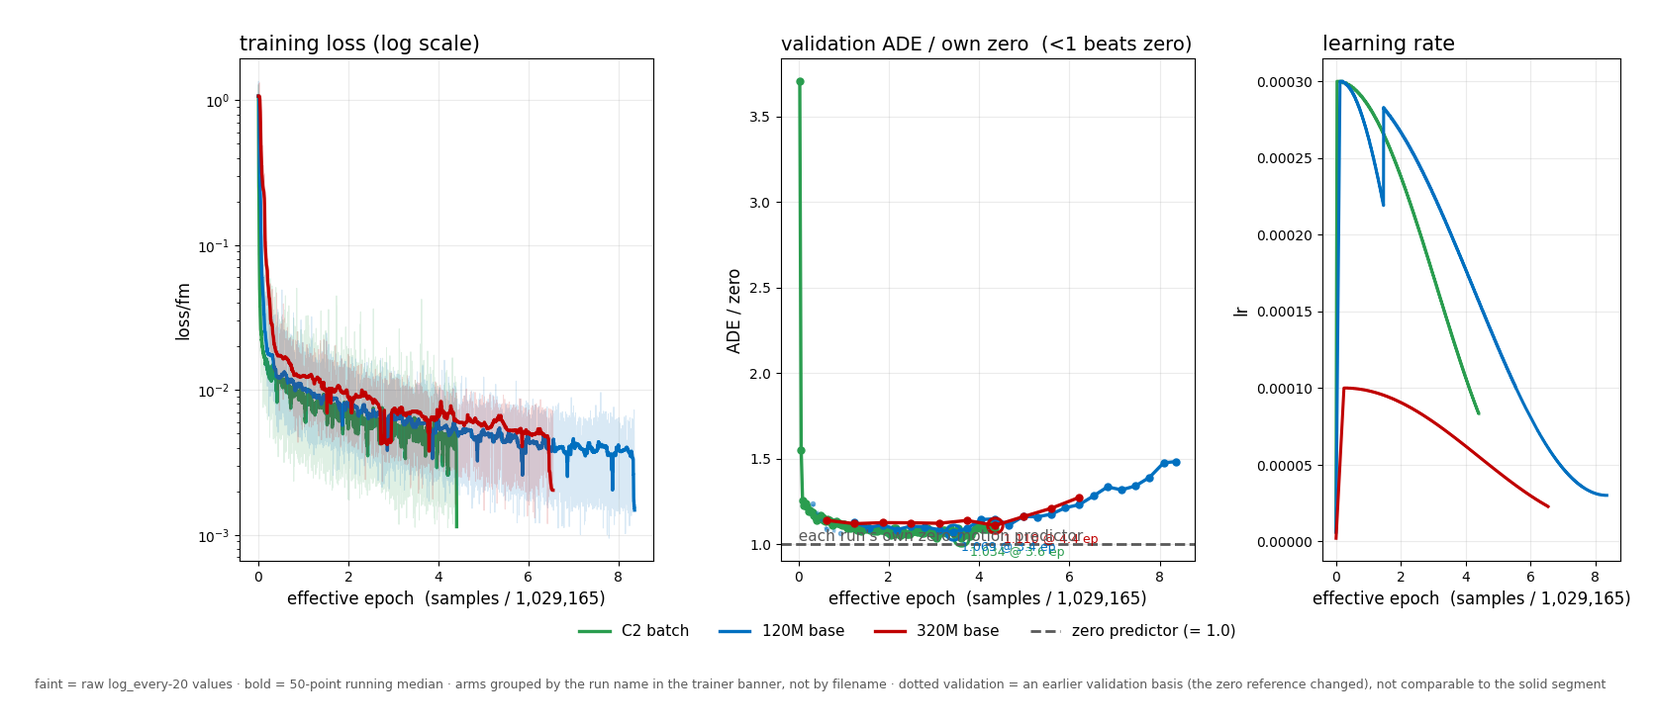
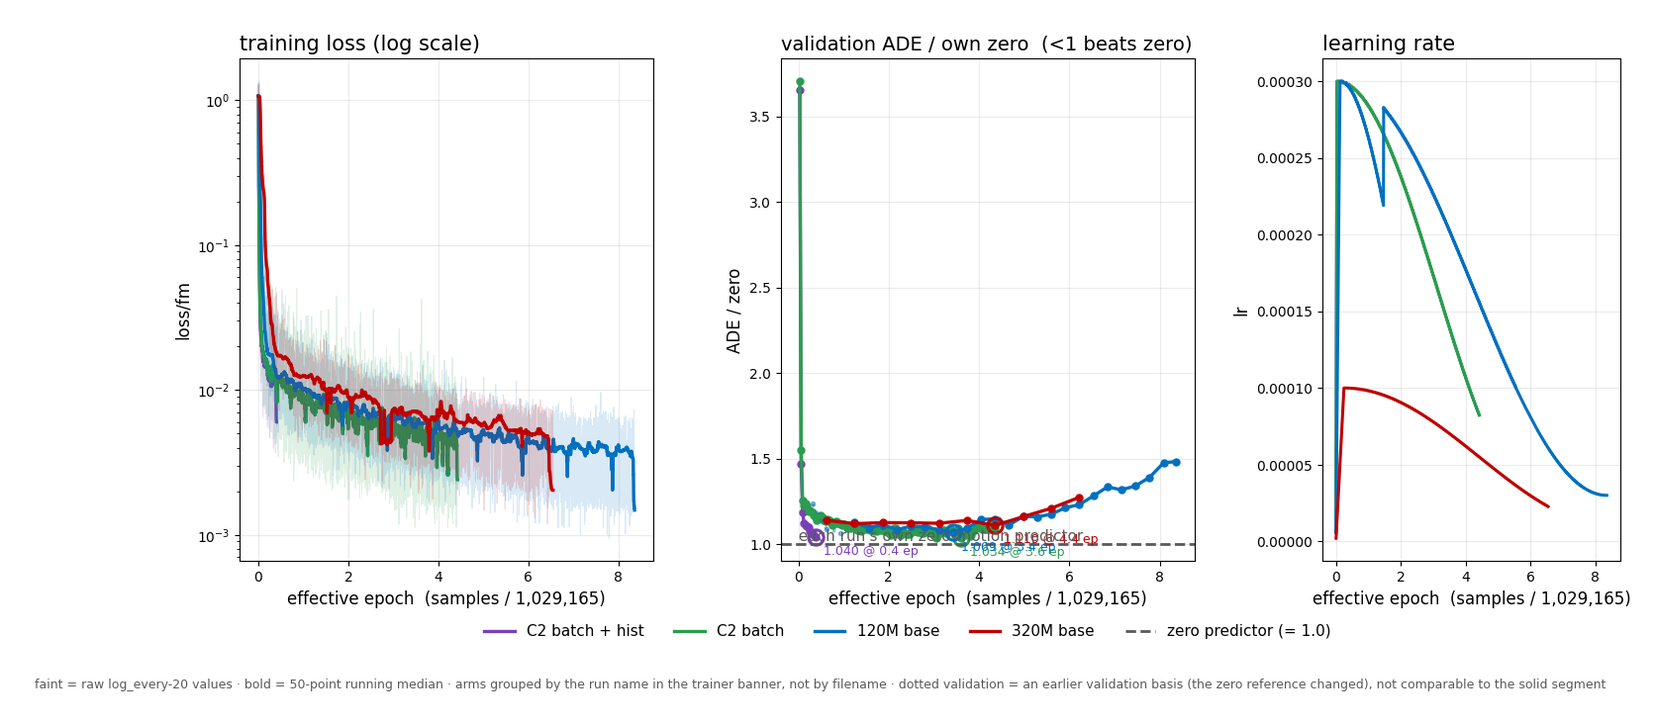
3d-wam deck #2-2: per-epoch update (2026-09-10 14:42 KST)
Claude-Session: https://claude.ai/code/session_01SMPxcWL3pAAD5cKRpfQpSb

diff --git a/experiments/3d-wam/decks/2026-09-09-s2-2-architecture-training/index.html b/experiments/3d-wam/decks/2026-09-09-s2-2-architecture-training/index.html
@@ -232,7 +232,7 @@
         <figcaption>The one metric and its three analyses</figcaption></figure>
     </div>
     <figure class="fig"><img src="assets/loss_curve.png" alt="Training loss and learning rate of both arms against effective epoch">
-      <figcaption>left: training loss &middot; <b>centre: held-out validation ADE &divide; each run&rsquo;s OWN zero predictor (1.0 dashed = zero; below 1.0 would beat it &mdash; no run has yet; dotted = an earlier basis, excluded)</b> &middot; right: learning rate. <b>C2 batch (green) reaches 1.034 at 3.6 ep &mdash; a better floor than the 120M base ever got (1.069 at 3.4 ep) &mdash; then turns up too (1.128 by 4.4 ep): the smaller batch lowers the minimum, it does not remove the overfitting.</b> Faint = raw log_every-20; dotted verticals = resume / GPU-count change.</figcaption></figure>
+      <figcaption>left: training loss &middot; <b>centre: held-out validation ADE &divide; each run&rsquo;s OWN zero predictor (1.0 dashed = zero; below 1.0 would beat it &mdash; no run has yet; dotted = an earlier basis, excluded)</b> &middot; right: learning rate. <b>C2 batch (green) reaches 1.034 at 3.6 ep &mdash; a better floor than the 120M base ever got (1.069 at 3.4 ep) &mdash; then turns up too (1.128 by 4.4 ep): the smaller batch lowers the minimum, it does not remove the overfitting.</b> <b>History (purple) is at 1.040 by 0.40 ep</b> &mdash; already near the batch arm&rsquo;s best floor. Faint = raw log_every-20; dotted verticals = resume / GPU-count change.</figcaption></figure>
   </div>
   <p class="footnote">mEPE = EPE3D on the moving subset (after Chodosh 2023) with the zero-velocity reference (Martinez 2017); owner-confirmed 09-09 14:10 · TACO Je/Te/Re companion · training logs season2/logs/</p>
 </section>
@@ -251,14 +251,14 @@
       <tr><td>320M base</td><td>ep08 · 8.00</td><td class="num">41.29 / 65.74</td><td class="num">36.17 / 24.26</td></tr>
       <tr class="pend"><td>320M base</td><td>ep01 · 1.00</td><td class="pd" colspan="2">landed 10:06 Wed · read not planned</td></tr>
       <tr class="pend"><td>C2 batch</td><td>ep02 · 2.00</td><td class="pd" colspan="2">landed 08:16 · read unestimated</td></tr>
-      <tr class="pend"><td>C2 batch + history</td><td>ep01 · 1.00</td><td class="pd" colspan="2">lands — · read unestimated</td></tr>
+      <tr class="pend"><td>C2 batch + history</td><td>ep01 · 1.00</td><td class="pd" colspan="2">lands 16:14 · read unestimated</td></tr>
       <tr class="pend"><td>C2 batch + contact aux</td><td>ep01 · 1.00</td><td class="pd" colspan="2">lands — · read unestimated</td></tr>
     </tbody></table>
     <figcaption>Latest reads per arm (all epochs are in the curves) · 7 held-out clips (2 ARCTIC · 3 GRAB · 2 HOI4D) · 6 train-episode clips rendered, not scored · self-predicted AR · H = 50 · CFG 1.0 · 16 Euler steps · zero = the basis's own zero-velocity predictor</figcaption></figure>
 </div>
 <!-- /GEN -->
   <!-- GEN:etabar -->
-<p class="etabar"><b>ETA</b> (from 13:40 KST) · <b>120M base</b>: all reads in &nbsp;|&nbsp; <b>320M base</b>: all reads in &nbsp;|&nbsp; <b>C2 batch</b> · ep02 landed 08:16 (-5.4 h) · read unestimated</b> · 2 more, ~2.7 h apart · ep06 6.00 ep lands <b>18:59</b> (+5.3 h) → read <b>~—</b> &nbsp;|&nbsp; <b>C2 batch + history</b> · ep01 lands — (unestimated) · read unestimated</b> · 4 more · ep06 6.00 ep lands <b>—</b> (unestimated) → read <b>~—</b> &nbsp;|&nbsp; <b>C2 batch + contact aux</b> · ep01 lands — (unestimated) · read unestimated</b> · 4 more · ep06 6.00 ep lands <b>—</b> (unestimated) → read <b>~—</b></p>
+<p class="etabar"><b>ETA</b> (from 14:42 KST) · <b>120M base</b>: all reads in &nbsp;|&nbsp; <b>320M base</b>: all reads in &nbsp;|&nbsp; <b>C2 batch</b> · ep02 landed 08:16 (-6.4 h) · read unestimated</b> · ep03 3.00 ep lands <b>10:57</b> (-3.8 h) → read <b>~—</b> &nbsp;|&nbsp; <b>C2 batch + history</b> · ep01 lands 16:14 (+1.5 h) · read unestimated</b> · 4 more, ~2.7 h apart · ep06 6.00 ep lands <b>05:38 Fri</b> (+14.9 h) → read <b>~—</b> &nbsp;|&nbsp; <b>C2 batch + contact aux</b> · ep01 lands — (unestimated) · read unestimated</b> · 4 more · ep06 6.00 ep lands <b>—</b> (unestimated) → read <b>~—</b></p>
 <!-- /GEN -->
   <p class="footnote">eff. epoch = steps × eff. batch / 1,029,165 · zero = zero-velocity predictor · every epoch scored on the SAME 7 held-out clips (re-pooled 03:15) · clips on the next seven slides</p>
 </section>
@@ -294,8 +294,8 @@
     <figure class="phold"><div class="pbox"><b>WILL UPDATE</b><span>landed 08:16</span></div><figcaption>C2 batch · step 64,322 · 2.00 ep</figcaption></figure>
     <figure class="phold"><div class="pbox"><b>WILL UPDATE</b><span>landed 10:57</span></div><figcaption>C2 batch · step 96,483 · 3.00 ep</figcaption></figure>
     <figure><img src="assets/c2b_nohist/ep04/roll/dexycb_292_ar.gif" alt="dexycb “grasp the tomato soup can”: ground truth left, rollout right (C2 batch, ep04)" loading="lazy" style="background:url(assets/c2b_nohist/ep04/roll/dexycb_292_ar.jpg) center/contain no-repeat"><figcaption>C2 batch · step 128,644 · 4.00 ep</figcaption></figure>
-    <figure class="phold"><div class="pbox"><b>WILL UPDATE</b><span>lands 16:19</span></div><figcaption>C2 batch · step 160,805 · 5.00 ep</figcaption></figure>
-    <figure class="phold"><div class="pbox"><b>WILL UPDATE</b><span>lands 18:59</span></div><figcaption>C2 batch · step 192,966 · 6.00 ep</figcaption></figure>
+    <figure class="phold"><div class="pbox"><b>WILL UPDATE</b><span>not scheduled</span></div><figcaption>C2 batch · ep05 · not scheduled</figcaption></figure>
+    <figure class="phold"><div class="pbox"><b>WILL UPDATE</b><span>not scheduled</span></div><figcaption>C2 batch · ep06 · not scheduled</figcaption></figure>
     <figure class="phold"><div class="pbox"><b>WILL UPDATE</b><span>not scheduled</span></div><figcaption>C2 batch · ep07 · not scheduled</figcaption></figure>
     <figure class="phold"><div class="pbox"><b>WILL UPDATE</b><span>not scheduled</span></div><figcaption>C2 batch · ep08 · not scheduled</figcaption></figure>
     <figure class="phold"><div class="pbox"><b>WILL UPDATE</b><span>not scheduled</span></div><figcaption>C2 batch · final · not scheduled</figcaption></figure>
@@ -332,8 +332,8 @@
     <figure class="phold"><div class="pbox"><b>WILL UPDATE</b><span>landed 08:16</span></div><figcaption>C2 batch · step 64,322 · 2.00 ep</figcaption></figure>
     <figure class="phold"><div class="pbox"><b>WILL UPDATE</b><span>landed 10:57</span></div><figcaption>C2 batch · step 96,483 · 3.00 ep</figcaption></figure>
     <figure><img src="assets/c2b_nohist/ep04/roll/hoi4d_2613_ar.gif" alt="hoi4d “pick and place the kettle”: ground truth left, rollout right (C2 batch, ep04)" loading="lazy" style="background:url(assets/c2b_nohist/ep04/roll/hoi4d_2613_ar.jpg) center/contain no-repeat"><figcaption>C2 batch · step 128,644 · 4.00 ep</figcaption></figure>
-    <figure class="phold"><div class="pbox"><b>WILL UPDATE</b><span>lands 16:19</span></div><figcaption>C2 batch · step 160,805 · 5.00 ep</figcaption></figure>
-    <figure class="phold"><div class="pbox"><b>WILL UPDATE</b><span>lands 18:59</span></div><figcaption>C2 batch · step 192,966 · 6.00 ep</figcaption></figure>
+    <figure class="phold"><div class="pbox"><b>WILL UPDATE</b><span>not scheduled</span></div><figcaption>C2 batch · ep05 · not scheduled</figcaption></figure>
+    <figure class="phold"><div class="pbox"><b>WILL UPDATE</b><span>not scheduled</span></div><figcaption>C2 batch · ep06 · not scheduled</figcaption></figure>
     <figure class="phold"><div class="pbox"><b>WILL UPDATE</b><span>not scheduled</span></div><figcaption>C2 batch · ep07 · not scheduled</figcaption></figure>
     <figure class="phold"><div class="pbox"><b>WILL UPDATE</b><span>not scheduled</span></div><figcaption>C2 batch · ep08 · not scheduled</figcaption></figure>
     <figure class="phold"><div class="pbox"><b>WILL UPDATE</b><span>not scheduled</span></div><figcaption>C2 batch · final · not scheduled</figcaption></figure>
@@ -370,8 +370,8 @@
     <figure class="phold"><div class="pbox"><b>WILL UPDATE</b><span>landed 08:16</span></div><figcaption>C2 batch · step 64,322 · 2.00 ep</figcaption></figure>
     <figure class="phold"><div class="pbox"><b>WILL UPDATE</b><span>landed 10:57</span></div><figcaption>C2 batch · step 96,483 · 3.00 ep</figcaption></figure>
     <figure><img src="assets/c2b_nohist/ep04/roll/hot3d_4293_ar.gif" alt="hot3d “interact with the potato masher and the can tomato sauce”: ground truth left, rollout right (C2 batch, ep04)" loading="lazy" style="background:url(assets/c2b_nohist/ep04/roll/hot3d_4293_ar.jpg) center/contain no-repeat"><figcaption>C2 batch · step 128,644 · 4.00 ep</figcaption></figure>
-    <figure class="phold"><div class="pbox"><b>WILL UPDATE</b><span>lands 16:19</span></div><figcaption>C2 batch · step 160,805 · 5.00 ep</figcaption></figure>
-    <figure class="phold"><div class="pbox"><b>WILL UPDATE</b><span>lands 18:59</span></div><figcaption>C2 batch · step 192,966 · 6.00 ep</figcaption></figure>
+    <figure class="phold"><div class="pbox"><b>WILL UPDATE</b><span>not scheduled</span></div><figcaption>C2 batch · ep05 · not scheduled</figcaption></figure>
+    <figure class="phold"><div class="pbox"><b>WILL UPDATE</b><span>not scheduled</span></div><figcaption>C2 batch · ep06 · not scheduled</figcaption></figure>
     <figure class="phold"><div class="pbox"><b>WILL UPDATE</b><span>not scheduled</span></div><figcaption>C2 batch · ep07 · not scheduled</figcaption></figure>
     <figure class="phold"><div class="pbox"><b>WILL UPDATE</b><span>not scheduled</span></div><figcaption>C2 batch · ep08 · not scheduled</figcaption></figure>
     <figure class="phold"><div class="pbox"><b>WILL UPDATE</b><span>not scheduled</span></div><figcaption>C2 batch · final · not scheduled</figcaption></figure>
@@ -408,8 +408,8 @@
     <figure class="phold"><div class="pbox"><b>WILL UPDATE</b><span>landed 08:16</span></div><figcaption>C2 batch · step 64,322 · 2.00 ep</figcaption></figure>
     <figure class="phold"><div class="pbox"><b>WILL UPDATE</b><span>landed 10:57</span></div><figcaption>C2 batch · step 96,483 · 3.00 ep</figcaption></figure>
     <figure><img src="assets/c2b_nohist/ep04/roll/arctic_0_ar.gif" alt="arctic “grab the box”: ground truth left, rollout right (C2 batch, ep04)" loading="lazy" style="background:url(assets/c2b_nohist/ep04/roll/arctic_0_ar.jpg) center/contain no-repeat"><figcaption>C2 batch · step 128,644 · 4.00 ep</figcaption></figure>
-    <figure class="phold"><div class="pbox"><b>WILL UPDATE</b><span>lands 16:19</span></div><figcaption>C2 batch · step 160,805 · 5.00 ep</figcaption></figure>
-    <figure class="phold"><div class="pbox"><b>WILL UPDATE</b><span>lands 18:59</span></div><figcaption>C2 batch · step 192,966 · 6.00 ep</figcaption></figure>
+    <figure class="phold"><div class="pbox"><b>WILL UPDATE</b><span>not scheduled</span></div><figcaption>C2 batch · ep05 · not scheduled</figcaption></figure>
+    <figure class="phold"><div class="pbox"><b>WILL UPDATE</b><span>not scheduled</span></div><figcaption>C2 batch · ep06 · not scheduled</figcaption></figure>
     <figure class="phold"><div class="pbox"><b>WILL UPDATE</b><span>not scheduled</span></div><figcaption>C2 batch · ep07 · not scheduled</figcaption></figure>
     <figure class="phold"><div class="pbox"><b>WILL UPDATE</b><span>not scheduled</span></div><figcaption>C2 batch · ep08 · not scheduled</figcaption></figure>
     <figure class="phold"><div class="pbox"><b>WILL UPDATE</b><span>not scheduled</span></div><figcaption>C2 batch · final · not scheduled</figcaption></figure>
@@ -446,8 +446,8 @@
     <figure class="phold"><div class="pbox"><b>WILL UPDATE</b><span>landed 08:16</span></div><figcaption>C2 batch · step 64,322 · 2.00 ep</figcaption></figure>
     <figure class="phold"><div class="pbox"><b>WILL UPDATE</b><span>landed 10:57</span></div><figcaption>C2 batch · step 96,483 · 3.00 ep</figcaption></figure>
     <figure><img src="assets/c2b_nohist/ep04/roll/grab_1312_ar.gif" alt="grab “lift the cup”: ground truth left, rollout right (C2 batch, ep04)" loading="lazy" style="background:url(assets/c2b_nohist/ep04/roll/grab_1312_ar.jpg) center/contain no-repeat"><figcaption>C2 batch · step 128,644 · 4.00 ep</figcaption></figure>
-    <figure class="phold"><div class="pbox"><b>WILL UPDATE</b><span>lands 16:19</span></div><figcaption>C2 batch · step 160,805 · 5.00 ep</figcaption></figure>
-    <figure class="phold"><div class="pbox"><b>WILL UPDATE</b><span>lands 18:59</span></div><figcaption>C2 batch · step 192,966 · 6.00 ep</figcaption></figure>
+    <figure class="phold"><div class="pbox"><b>WILL UPDATE</b><span>not scheduled</span></div><figcaption>C2 batch · ep05 · not scheduled</figcaption></figure>
+    <figure class="phold"><div class="pbox"><b>WILL UPDATE</b><span>not scheduled</span></div><figcaption>C2 batch · ep06 · not scheduled</figcaption></figure>
     <figure class="phold"><div class="pbox"><b>WILL UPDATE</b><span>not scheduled</span></div><figcaption>C2 batch · ep07 · not scheduled</figcaption></figure>
     <figure class="phold"><div class="pbox"><b>WILL UPDATE</b><span>not scheduled</span></div><figcaption>C2 batch · ep08 · not scheduled</figcaption></figure>
     <figure class="phold"><div class="pbox"><b>WILL UPDATE</b><span>not scheduled</span></div><figcaption>C2 batch · final · not scheduled</figcaption></figure>
@@ -484,8 +484,8 @@
     <figure class="phold"><div class="pbox"><b>WILL UPDATE</b><span>landed 08:16</span></div><figcaption>C2 batch · step 64,322 · 2.00 ep</figcaption></figure>
     <figure class="phold"><div class="pbox"><b>WILL UPDATE</b><span>landed 10:57</span></div><figcaption>C2 batch · step 96,483 · 3.00 ep</figcaption></figure>
     <figure><img src="assets/c2b_nohist/ep04/roll/oakink2_4588_ar.gif" alt="oakink2 “Weigh something with scale by pouring it into the bowl.”: ground truth left, rollout right (C2 batch, ep04)" loading="lazy" style="background:url(assets/c2b_nohist/ep04/roll/oakink2_4588_ar.jpg) center/contain no-repeat"><figcaption>C2 batch · step 128,644 · 4.00 ep</figcaption></figure>
-    <figure class="phold"><div class="pbox"><b>WILL UPDATE</b><span>lands 16:19</span></div><figcaption>C2 batch · step 160,805 · 5.00 ep</figcaption></figure>
-    <figure class="phold"><div class="pbox"><b>WILL UPDATE</b><span>lands 18:59</span></div><figcaption>C2 batch · step 192,966 · 6.00 ep</figcaption></figure>
+    <figure class="phold"><div class="pbox"><b>WILL UPDATE</b><span>not scheduled</span></div><figcaption>C2 batch · ep05 · not scheduled</figcaption></figure>
+    <figure class="phold"><div class="pbox"><b>WILL UPDATE</b><span>not scheduled</span></div><figcaption>C2 batch · ep06 · not scheduled</figcaption></figure>
     <figure class="phold"><div class="pbox"><b>WILL UPDATE</b><span>not scheduled</span></div><figcaption>C2 batch · ep07 · not scheduled</figcaption></figure>
     <figure class="phold"><div class="pbox"><b>WILL UPDATE</b><span>not scheduled</span></div><figcaption>C2 batch · ep08 · not scheduled</figcaption></figure>
     <figure class="phold"><div class="pbox"><b>WILL UPDATE</b><span>not scheduled</span></div><figcaption>C2 batch · final · not scheduled</figcaption></figure>
@@ -522,8 +522,8 @@
     <figure class="phold"><div class="pbox"><b>WILL UPDATE</b><span>landed 08:16</span></div><figcaption>C2 batch · step 64,322 · 2.00 ep</figcaption></figure>
     <figure class="phold"><div class="pbox"><b>WILL UPDATE</b><span>landed 10:57</span></div><figcaption>C2 batch · step 96,483 · 3.00 ep</figcaption></figure>
     <figure><img src="assets/c2b_nohist/ep04/roll/taco_7606_ar.gif" alt="taco “put in the pan with the bowl”: ground truth left, rollout right (C2 batch, ep04)" loading="lazy" style="background:url(assets/c2b_nohist/ep04/roll/taco_7606_ar.jpg) center/contain no-repeat"><figcaption>C2 batch · step 128,644 · 4.00 ep</figcaption></figure>
-    <figure class="phold"><div class="pbox"><b>WILL UPDATE</b><span>lands 16:19</span></div><figcaption>C2 batch · step 160,805 · 5.00 ep</figcaption></figure>
-    <figure class="phold"><div class="pbox"><b>WILL UPDATE</b><span>lands 18:59</span></div><figcaption>C2 batch · step 192,966 · 6.00 ep</figcaption></figure>
+    <figure class="phold"><div class="pbox"><b>WILL UPDATE</b><span>not scheduled</span></div><figcaption>C2 batch · ep05 · not scheduled</figcaption></figure>
+    <figure class="phold"><div class="pbox"><b>WILL UPDATE</b><span>not scheduled</span></div><figcaption>C2 batch · ep06 · not scheduled</figcaption></figure>
     <figure class="phold"><div class="pbox"><b>WILL UPDATE</b><span>not scheduled</span></div><figcaption>C2 batch · ep07 · not scheduled</figcaption></figure>
     <figure class="phold"><div class="pbox"><b>WILL UPDATE</b><span>not scheduled</span></div><figcaption>C2 batch · ep08 · not scheduled</figcaption></figure>
     <figure class="phold"><div class="pbox"><b>WILL UPDATE</b><span>not scheduled</span></div><figcaption>C2 batch · final · not scheduled</figcaption></figure>
@@ -546,14 +546,14 @@
       <tr><td>320M base</td><td>ep08 · 8.00</td><td class="num">4.98 / 4.65</td><td class="num">10.22 / 8.72</td><td class="num">0 / 3</td></tr>
       <tr class="pend"><td>320M base</td><td>ep01 · 1.00</td><td class="pd" colspan="3">landed 10:06 Wed · read not planned</td></tr>
       <tr class="pend"><td>C2 batch</td><td>ep02 · 2.00</td><td class="pd" colspan="3">landed 08:16 · read unestimated</td></tr>
-      <tr class="pend"><td>C2 batch + history</td><td>ep01 · 1.00</td><td class="pd" colspan="3">lands — · read unestimated</td></tr>
+      <tr class="pend"><td>C2 batch + history</td><td>ep01 · 1.00</td><td class="pd" colspan="3">lands 16:14 · read unestimated</td></tr>
       <tr class="pend"><td>C2 batch + contact aux</td><td>ep01 · 1.00</td><td class="pd" colspan="3">lands — · read unestimated</td></tr>
     </tbody></table>
     <figcaption>Latest reads per arm (all epochs are in the curves) · GR-1 PnPCanToBowl · 3 episodes · H = 4 replans, timestep-matched · can + bowl in the scene · zero = the basis's own zero-velocity predictor</figcaption></figure>
 </div>
 <!-- /GEN -->
   <!-- GEN:etabar -->
-<p class="etabar"><b>ETA</b> (from 13:40 KST) · <b>120M base</b>: all reads in &nbsp;|&nbsp; <b>320M base</b>: all reads in &nbsp;|&nbsp; <b>C2 batch</b> · ep02 landed 08:16 (-5.4 h) · read unestimated</b> · 2 more, ~2.7 h apart · ep06 6.00 ep lands <b>18:59</b> (+5.3 h) → read <b>~—</b> &nbsp;|&nbsp; <b>C2 batch + history</b> · ep01 lands — (unestimated) · read unestimated</b> · 4 more · ep06 6.00 ep lands <b>—</b> (unestimated) → read <b>~—</b> &nbsp;|&nbsp; <b>C2 batch + contact aux</b> · ep01 lands — (unestimated) · read unestimated</b> · 4 more · ep06 6.00 ep lands <b>—</b> (unestimated) → read <b>~—</b></p>
+<p class="etabar"><b>ETA</b> (from 14:42 KST) · <b>120M base</b>: all reads in &nbsp;|&nbsp; <b>320M base</b>: all reads in &nbsp;|&nbsp; <b>C2 batch</b> · ep02 landed 08:16 (-6.4 h) · read unestimated</b> · ep03 3.00 ep lands <b>10:57</b> (-3.8 h) → read <b>~—</b> &nbsp;|&nbsp; <b>C2 batch + history</b> · ep01 lands 16:14 (+1.5 h) · read unestimated</b> · 4 more, ~2.7 h apart · ep06 6.00 ep lands <b>05:38 Fri</b> (+14.9 h) → read <b>~—</b> &nbsp;|&nbsp; <b>C2 batch + contact aux</b> · ep01 lands — (unestimated) · read unestimated</b> · 4 more · ep06 6.00 ep lands <b>—</b> (unestimated) → read <b>~—</b></p>
 <!-- /GEN -->
   <p class="footnote">Protocol in Appendix A1 (H = 4 is GR00T N1.7's official 8 env steps). <b>Zero moves with the checkpoint</b> (3.98–5.03 cm): closed-loop truth is the sim under the <i>model's own</i> actions, so the 2 cm moving set — and the baseline — are checkpoint-dependent. <b>Each row is one measurement, not a trend.</b> Margins ep01→final: −0.01, +0.75, +0.65, +0.56, +0.48, +0.59, +0.75, −0.19, +0.75 (mean +0.48, sd 0.33); ep08 is an outlier, not a decline.</p>
 </section>
@@ -589,8 +589,8 @@
     <figure class="phold"><div class="pbox"><b>WILL UPDATE</b><span>landed 08:16</span></div><figcaption>C2 batch · step 64,322 · 2.00 ep</figcaption></figure>
     <figure class="phold"><div class="pbox"><b>WILL UPDATE</b><span>landed 10:57</span></div><figcaption>C2 batch · step 96,483 · 3.00 ep</figcaption></figure>
     <figure><video src="assets/c2b_nohist/ep04/gr1/episode_00_composite.mp4" poster="assets/c2b_nohist/ep04/gr1/episode_00_composite.jpg" autoplay loop muted playsinline preload="metadata"></video><figcaption>C2 batch · step 128,644 · 4.00 ep</figcaption></figure>
-    <figure class="phold"><div class="pbox"><b>WILL UPDATE</b><span>lands 16:19</span></div><figcaption>C2 batch · step 160,805 · 5.00 ep</figcaption></figure>
-    <figure class="phold"><div class="pbox"><b>WILL UPDATE</b><span>lands 18:59</span></div><figcaption>C2 batch · step 192,966 · 6.00 ep</figcaption></figure>
+    <figure class="phold"><div class="pbox"><b>WILL UPDATE</b><span>not scheduled</span></div><figcaption>C2 batch · ep05 · not scheduled</figcaption></figure>
+    <figure class="phold"><div class="pbox"><b>WILL UPDATE</b><span>not scheduled</span></div><figcaption>C2 batch · ep06 · not scheduled</figcaption></figure>
     <figure class="phold"><div class="pbox"><b>WILL UPDATE</b><span>not scheduled</span></div><figcaption>C2 batch · ep07 · not scheduled</figcaption></figure>
     <figure class="phold"><div class="pbox"><b>WILL UPDATE</b><span>not scheduled</span></div><figcaption>C2 batch · ep08 · not scheduled</figcaption></figure>
     <figure class="phold"><div class="pbox"><b>WILL UPDATE</b><span>not scheduled</span></div><figcaption>C2 batch · final · not scheduled</figcaption></figure>
@@ -613,14 +613,14 @@
       <tr><td>320M base</td><td>ep08 · 8.00</td><td class="num">13.45 / 6.53</td><td class="num">14.24 / 13.88</td><td class="num">0 / 3</td></tr>
       <tr class="pend"><td>320M base</td><td>ep01 · 1.00</td><td class="pd" colspan="3">landed 10:06 Wed · read not planned</td></tr>
       <tr class="pend"><td>C2 batch</td><td>ep02 · 2.00</td><td class="pd" colspan="3">landed 08:16 · read unestimated</td></tr>
-      <tr class="pend"><td>C2 batch + history</td><td>ep01 · 1.00</td><td class="pd" colspan="3">lands — · read unestimated</td></tr>
+      <tr class="pend"><td>C2 batch + history</td><td>ep01 · 1.00</td><td class="pd" colspan="3">lands 16:14 · read unestimated</td></tr>
       <tr class="pend"><td>C2 batch + contact aux</td><td>ep01 · 1.00</td><td class="pd" colspan="3">lands — · read unestimated</td></tr>
     </tbody></table>
     <figcaption>Latest reads per arm (all epochs are in the curves) · DexJoCo hammer_nail · 3 episodes · H = 4 replans, timestep-matched · front camera · '—' = no GT object point moved &gt; 2 cm · zero = the basis's own zero-velocity predictor</figcaption></figure>
 </div>
 <!-- /GEN -->
   <!-- GEN:etabar -->
-<p class="etabar"><b>ETA</b> (from 13:40 KST) · <b>120M base</b>: all reads in &nbsp;|&nbsp; <b>320M base</b>: all reads in &nbsp;|&nbsp; <b>C2 batch</b> · ep02 landed 08:16 (-5.4 h) · read unestimated</b> · 2 more, ~2.7 h apart · ep06 6.00 ep lands <b>18:59</b> (+5.3 h) → read <b>~—</b> &nbsp;|&nbsp; <b>C2 batch + history</b> · ep01 lands — (unestimated) · read unestimated</b> · 4 more · ep06 6.00 ep lands <b>—</b> (unestimated) → read <b>~—</b> &nbsp;|&nbsp; <b>C2 batch + contact aux</b> · ep01 lands — (unestimated) · read unestimated</b> · 4 more · ep06 6.00 ep lands <b>—</b> (unestimated) → read <b>~—</b></p>
+<p class="etabar"><b>ETA</b> (from 14:42 KST) · <b>120M base</b>: all reads in &nbsp;|&nbsp; <b>320M base</b>: all reads in &nbsp;|&nbsp; <b>C2 batch</b> · ep02 landed 08:16 (-6.4 h) · read unestimated</b> · ep03 3.00 ep lands <b>10:57</b> (-3.8 h) → read <b>~—</b> &nbsp;|&nbsp; <b>C2 batch + history</b> · ep01 lands 16:14 (+1.5 h) · read unestimated</b> · 4 more, ~2.7 h apart · ep06 6.00 ep lands <b>05:38 Fri</b> (+14.9 h) → read <b>~—</b> &nbsp;|&nbsp; <b>C2 batch + contact aux</b> · ep01 lands — (unestimated) · read unestimated</b> · 4 more · ep06 6.00 ep lands <b>—</b> (unestimated) → read <b>~—</b></p>
 <!-- /GEN -->
   <p class="footnote">Protocol + reference points (&pi;0.5 84.7 % · GR00T N1.5 67.3 %) in Appendix A2. <b>Base column = auto-latency; ARM reads = pinned 650 ms — NOT comparable</b> (node class ~2× on decode, spread 1.65×). The only valid base-vs-arm comparison is the <b>120M final at the pinned basis</b>; 120M ep01/ep02 are pinned too. Lines are the plotter's, not a trend.</p>
 </section>
@@ -656,8 +656,8 @@
     <figure class="phold"><div class="pbox"><b>WILL UPDATE</b><span>landed 08:16</span></div><figcaption>C2 batch · step 64,322 · 2.00 ep</figcaption></figure>
     <figure class="phold"><div class="pbox"><b>WILL UPDATE</b><span>landed 10:57</span></div><figcaption>C2 batch · step 96,483 · 3.00 ep</figcaption></figure>
     <figure><video src="assets/c2b_nohist/ep04/dexjoco/episode_00_composite.mp4" poster="assets/c2b_nohist/ep04/dexjoco/episode_00_composite.jpg" autoplay loop muted playsinline preload="metadata"></video><figcaption>C2 batch · step 128,644 · 4.00 ep</figcaption></figure>
-    <figure class="phold"><div class="pbox"><b>WILL UPDATE</b><span>lands 16:19</span></div><figcaption>C2 batch · step 160,805 · 5.00 ep</figcaption></figure>
-    <figure class="phold"><div class="pbox"><b>WILL UPDATE</b><span>lands 18:59</span></div><figcaption>C2 batch · step 192,966 · 6.00 ep</figcaption></figure>
+    <figure class="phold"><div class="pbox"><b>WILL UPDATE</b><span>not scheduled</span></div><figcaption>C2 batch · ep05 · not scheduled</figcaption></figure>
+    <figure class="phold"><div class="pbox"><b>WILL UPDATE</b><span>not scheduled</span></div><figcaption>C2 batch · ep06 · not scheduled</figcaption></figure>
     <figure class="phold"><div class="pbox"><b>WILL UPDATE</b><span>not scheduled</span></div><figcaption>C2 batch · ep07 · not scheduled</figcaption></figure>
     <figure class="phold"><div class="pbox"><b>WILL UPDATE</b><span>not scheduled</span></div><figcaption>C2 batch · ep08 · not scheduled</figcaption></figure>
     <figure class="phold"><div class="pbox"><b>WILL UPDATE</b><span>not scheduled</span></div><figcaption>C2 batch · final · not scheduled</figcaption></figure>
@@ -675,38 +675,38 @@
     <figure class="tb run"><table class="sum run">
       <thead><tr><th>running</th><th>compute</th><th>progress</th><th>rate</th><th>lands</th></tr></thead>
       <tbody>
-        <tr><td>120M · job 11270</td><td>4× H100 (iclr2027-gpu)</td><td>step 67,200 of 67,200 (8.36 of 8.36 ep)</td><td>0.71 s/step</td><td>00:53 (-12.8 h)</td></tr>
-        <tr><td>320M (MLXP)</td><td>4× H200 (MLXP)</td><td>step 32,160 of 32,160 (8.00 of 8.00 ep) · 24 h cap</td><td>2.57 s/step</td><td>06:17 (-7.4 h)</td></tr>
-        <tr><td>C2 batch · job 11922</td><td>4× H100 (iclr2027-gpu)</td><td>step 141,700 of 192,966 (4.41 of 6.00 ep)</td><td>0.30 s/step</td><td>18:59 (+5.3 h)</td></tr>
-        <tr><td>C2 batch + history (MLXP)</td><td>4× H200 (MLXP)</td><td>step 0 of 192,966 (0.00 of 6.00 ep)</td><td>—</td><td>— (unestimated)</td></tr>
+        <tr><td>120M · job 11270</td><td>4× H100 (iclr2027-gpu)</td><td>step 67,200 of 67,200 (8.36 of 8.36 ep)</td><td>0.71 s/step</td><td>00:53 (-13.8 h)</td></tr>
+        <tr><td>320M (MLXP)</td><td>4× H200 (MLXP)</td><td>step 32,160 of 32,160 (8.00 of 8.00 ep) · 24 h cap</td><td>2.57 s/step</td><td>06:17 (-8.4 h)</td></tr>
+        <tr><td>C2 batch · job 11922</td><td>4× H100 (iclr2027-gpu)</td><td>step 142,320 of 128,644 (4.43 of 4.00 ep)</td><td>0.30 s/step</td><td>13:38 (-1.1 h)</td></tr>
+        <tr><td>C2 batch + history (MLXP)</td><td>4× H200 (MLXP)</td><td>step 12,960 of 192,966 (0.40 of 6.00 ep)</td><td>0.30 s/step</td><td>05:38 Fri (+14.9 h)</td></tr>
         <tr><td>C2 batch + contact aux</td><td>4× GPU</td><td>step 0 of 192,966 (0.00 of 6.00 ep)</td><td>—</td><td>— (unestimated)</td></tr>
       </tbody></table>
-      <figcaption>What is running · progress as of 13:40 KST · eff. epoch = steps × eff. batch ÷ 1,029,165</figcaption></figure>
+      <figcaption>What is running · progress as of 14:42 KST · eff. epoch = steps × eff. batch ÷ 1,029,165</figcaption></figure>
     <figure class="tb"><table class="sum due">
       <thead><tr><th>due (no input)</th><th>hours</th><th>when</th></tr></thead>
       <tbody>
         <tr><td>C2 batch ep02 read</td><td>unestimated</td><td>—</td></tr>
         <tr><td>C2 batch ep03 read</td><td>unestimated</td><td>—</td></tr>
-        <tr><td>C2 batch ep05 read</td><td>unestimated</td><td>—</td></tr>
-        <tr><td>C2 batch ep06 read</td><td>unestimated</td><td>—</td></tr>
         <tr><td>C2 batch + history ep01 read</td><td>unestimated</td><td>—</td></tr>
+        <tr><td>C2 batch + history ep02 read</td><td>unestimated</td><td>—</td></tr>
+        <tr><td>C2 batch + history ep03 read</td><td>unestimated</td><td>—</td></tr>
         <tr><td>C2 batch + contact aux ep06 read</td><td>unestimated</td><td>—</td></tr>
       </tbody></table>
-      <figcaption>Results due, no input needed · 10 more on the viz tiles</figcaption></figure>
+      <figcaption>Results due, no input needed · 8 more on the viz tiles</figcaption></figure>
   </div>
 <!-- /GEN -->
   <div class="band sum2">
     <figure class="tb"><table class="sum dec">
-      <thead><tr><th>launched tonight (6.2 ep each)</th><th>isolates</th><th>first read</th></tr></thead>
+      <thead><tr><th>the three arms</th><th>isolates</th><th>state at 14:40</th></tr></thead>
       <tbody>
-        <tr><td><b>11922</b> c2b_nohist · batch 32, no history</td><td>BATCH (noise 2.3e-6 &rarr; 9.4e-6)</td><td>~04:55, 2.0 h/ep</td></tr>
-        <tr><td>c2b_hist (MLXP) · batch 32, <b>history H=2</b></td><td>HISTORY at C2's noise scale</td><td><b>not started</b> — unschedulable 9 h (h200 zone full)</td></tr>
-        <tr><td>contact-map auxiliary loss</td><td>contact supervision</td><td>id pending</td></tr>
+        <tr><td><b>11922</b> c2b_nohist · batch 32, no history</td><td>BATCH (noise 2.3e-6 &rarr; 9.4e-6)</td><td><b>stopped at 4.42 ep</b> (13:34) — its 4 H100s went to the history arm; ep01 + ep04 read</td></tr>
+        <tr><td><b>12201</b> c2b_hist · batch 32, <b>history H=2</b></td><td>HISTORY at C2's batch</td><td><b>RUNNING on h100</b> since 13:34 (moved off MLXP, unschedulable 9 h); ep01 ~16:14</td></tr>
+        <tr><td><b>12202</b> contact-map auxiliary loss</td><td>contact supervision</td><td>pending on h100</td></tr>
       </tbody></table>
       <figcaption>C2 (last config that beat zero): batch 32 · history H=2 · stopped at 4.15 ep. The base: batch 128 · no history · 8.36 ep. — <b>Overfitting rests on the two FIXED-basis signals only</b>: in-training validation (192 chunks) and the seven-clip rollouts. <b>GR-1 is excluded</b> (its zero moves with the checkpoint); DexJoCo reports per checkpoint.</figcaption></figure>
   </div>
   <!-- GEN:etabar -->
-<p class="etabar"><b>ETA</b> (from 13:40 KST) · <b>120M base</b>: all reads in &nbsp;|&nbsp; <b>320M base</b>: all reads in &nbsp;|&nbsp; <b>C2 batch</b> · ep02 landed 08:16 (-5.4 h) · read unestimated</b> · 2 more, ~2.7 h apart · ep06 6.00 ep lands <b>18:59</b> (+5.3 h) → read <b>~—</b> &nbsp;|&nbsp; <b>C2 batch + history</b> · ep01 lands — (unestimated) · read unestimated</b> · 4 more · ep06 6.00 ep lands <b>—</b> (unestimated) → read <b>~—</b> &nbsp;|&nbsp; <b>C2 batch + contact aux</b> · ep01 lands — (unestimated) · read unestimated</b> · 4 more · ep06 6.00 ep lands <b>—</b> (unestimated) → read <b>~—</b></p>
+<p class="etabar"><b>ETA</b> (from 14:42 KST) · <b>120M base</b>: all reads in &nbsp;|&nbsp; <b>320M base</b>: all reads in &nbsp;|&nbsp; <b>C2 batch</b> · ep02 landed 08:16 (-6.4 h) · read unestimated</b> · ep03 3.00 ep lands <b>10:57</b> (-3.8 h) → read <b>~—</b> &nbsp;|&nbsp; <b>C2 batch + history</b> · ep01 lands 16:14 (+1.5 h) · read unestimated</b> · 4 more, ~2.7 h apart · ep06 6.00 ep lands <b>05:38 Fri</b> (+14.9 h) → read <b>~—</b> &nbsp;|&nbsp; <b>C2 batch + contact aux</b> · ep01 lands — (unestimated) · read unestimated</b> · 4 more · ep06 6.00 ep lands <b>—</b> (unestimated) → read <b>~—</b></p>
 <!-- /GEN -->
 </section>
 
